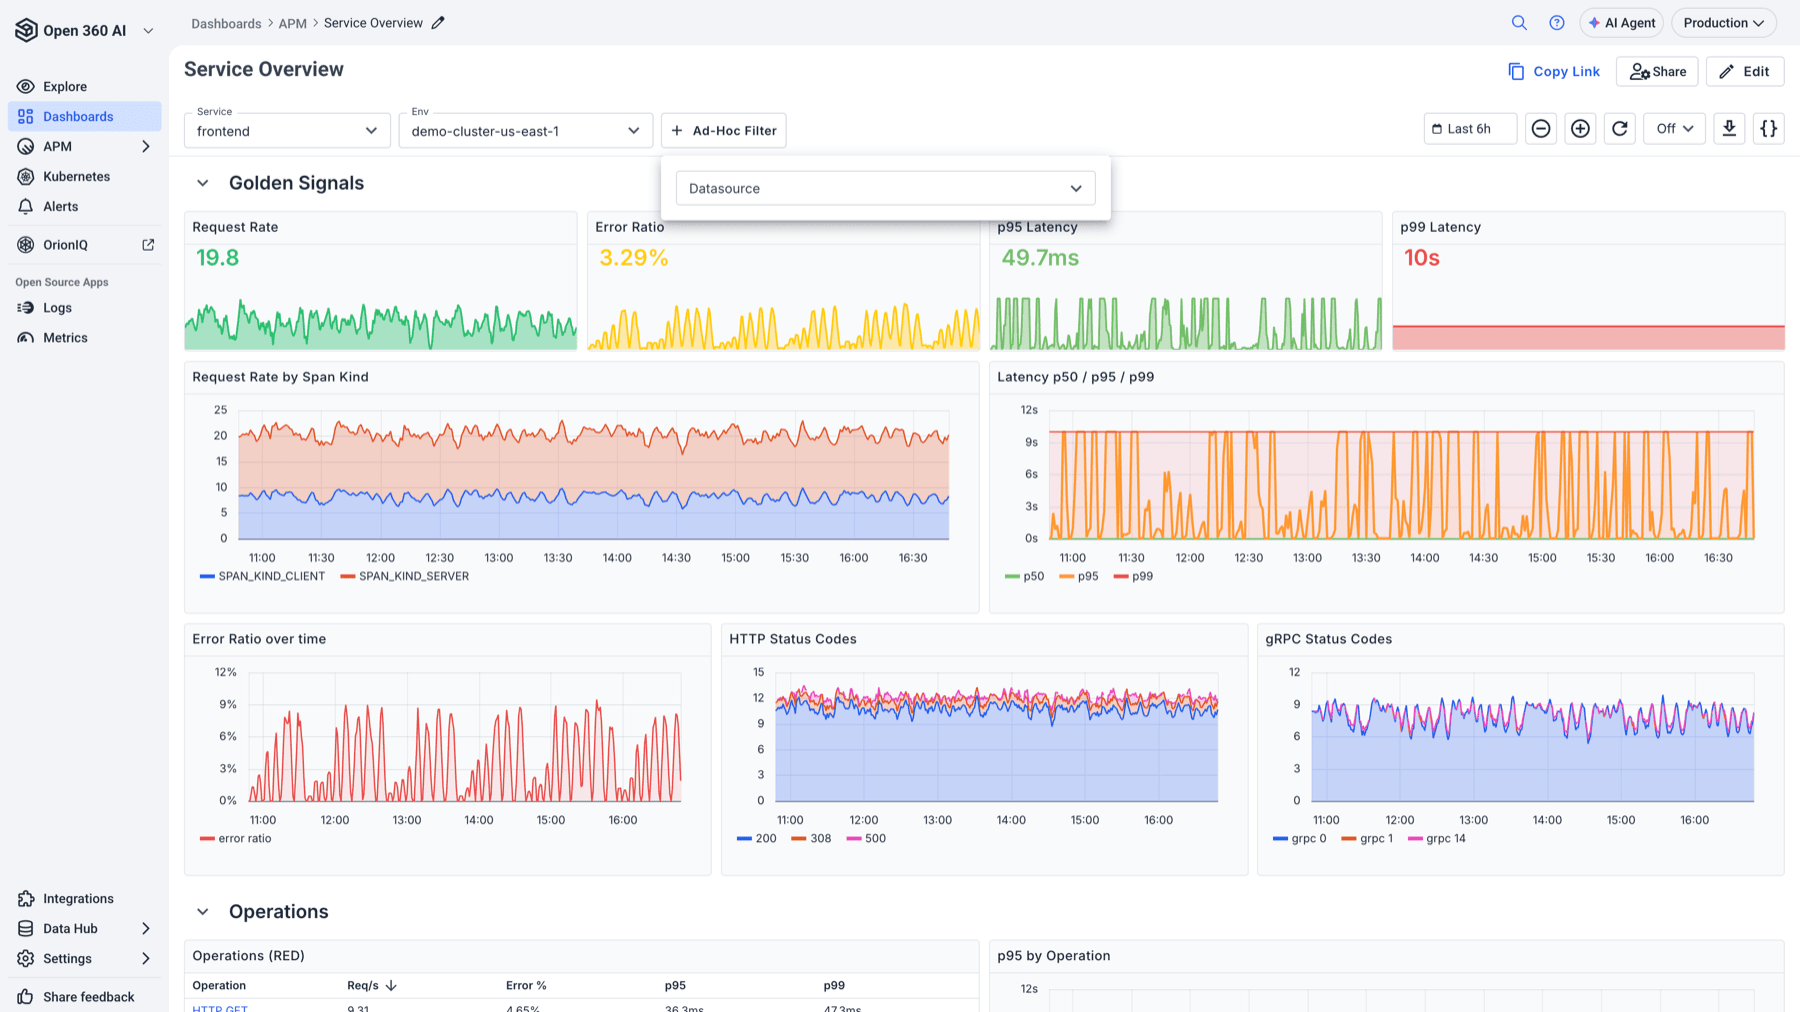
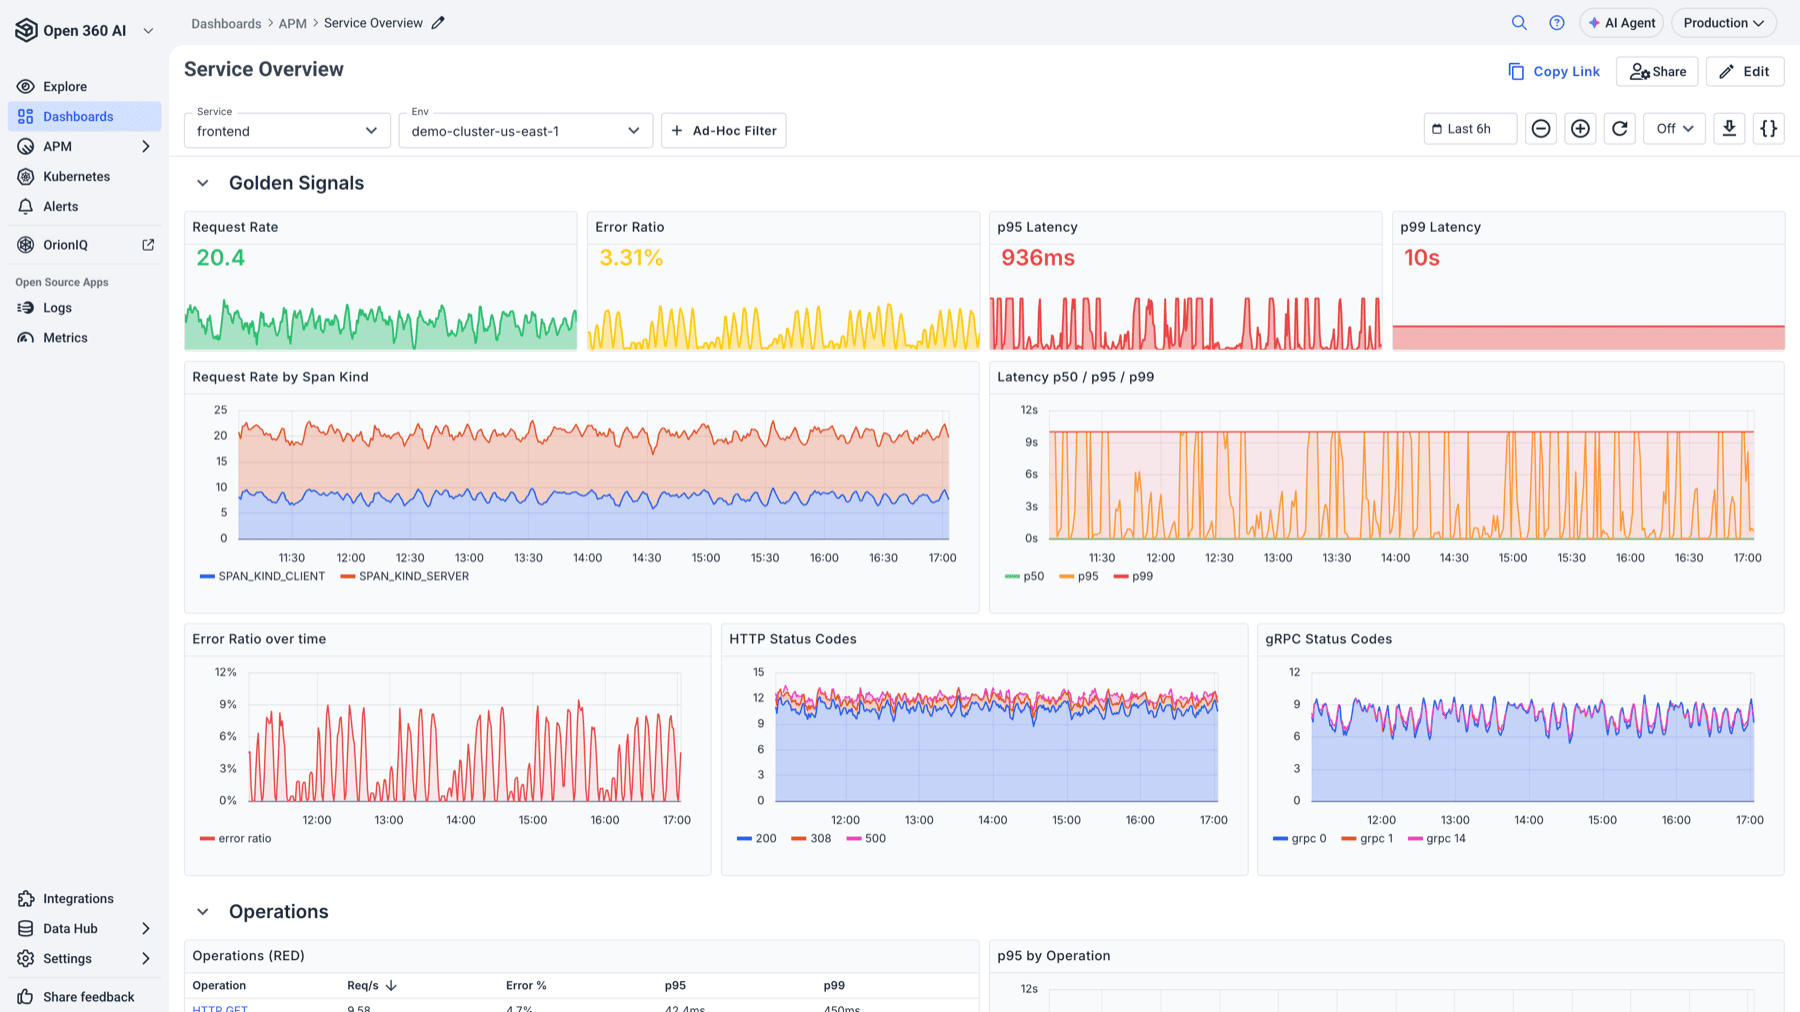
Correct the ad hoc filter form fields and Apply step
The builder's real fields are Datasource, Label / Field, Operator and Values,
followed by an explicit Apply — nothing takes effect until Apply is pressed.
The earlier draft described a looser three-step flow and omitted Apply.

Also documents the operator symbols the UI displays next to each name
(=*, !=*, *, !*), and that Values renders selections as chips.

The screenshot shows the control being opened rather than a completed filter;
the form could not be driven end to end by script.

diff --git a/docs/open360/dashboards/ad-hoc-filters.md b/docs/open360/dashboards/ad-hoc-filters.md
@@ -10,22 +10,31 @@ Ad hoc filters let you narrow a whole dashboard from the toolbar — pick a fiel
 
 This is the difference between a dashboard that answers one question and a dashboard you can interrogate. When someone asks "is this happening in production too", you add a filter instead of building a second dashboard.
 
-<img src="/img/open360/dashboard-ad-hoc-filters.png" alt="Ad hoc filter bar on a Unified Dashboard" width="900"/>
+<img src="/img/open360/dashboard-ad-hoc-filters.png" alt="Opening the ad hoc filter builder on a Unified Dashboard" width="900"/>
+
+The **Ad-Hoc Filter** control sits in the dashboard toolbar, alongside the dashboard's own variables.
 
 ## Add a filter
 
-Select **Add filter** in the dashboard toolbar, then choose:
+Select **Ad-Hoc Filter** in the dashboard toolbar and fill in the form:
 
-1. **A datasource.** Filters apply per datasource, and the picker groups them and labels each as **Metrics** or **Logs**. A dashboard mixing Prometheus and OpenSearch panels can carry separate filters for each.
-2. **A field.**
-3. **An operator** and, where relevant, **values**.
-
-| Operator | Meaning |
+| Field | What it does |
 |---|---|
-| **is one of** | Field matches any of the selected values |
-| **is not one of** | Field matches none of the selected values |
-| **exists** | Field is present, whatever its value |
-| **does not exist** | Field is absent |
+| **Datasource** | Which datasource the filter applies to. The picker groups them and labels each as **Metrics** or **Logs**, so a dashboard mixing Prometheus and OpenSearch panels can carry separate filters for each. |
+| **Label / Field** | The label (metrics) or field (logs) to filter on. |
+| **Operator** | How to compare — see below. |
+| **Values** | One or more values, added as chips. Only shown for the operators that need them. |
+
+Then select **Apply**. Nothing changes until you do, so you can build the filter without the dashboard reloading under you.
+
+| Operator | Shown as | Meaning |
+|---|---|---|
+| **is one of** | `=*` | Field matches any of the selected values |
+| **is not one of** | `!=*` | Field matches none of the selected values |
+| **exists** | `*` | Field is present, whatever its value |
+| **does not exist** | `!*` | Field is absent |
+
+The operator list shows each symbol next to its name, which is handy if you also read the query it produces.
 
 `exists` and `does not exist` take no values — they're the ones to reach for when you're chasing a labelling or instrumentation gap rather than a specific value.
 
